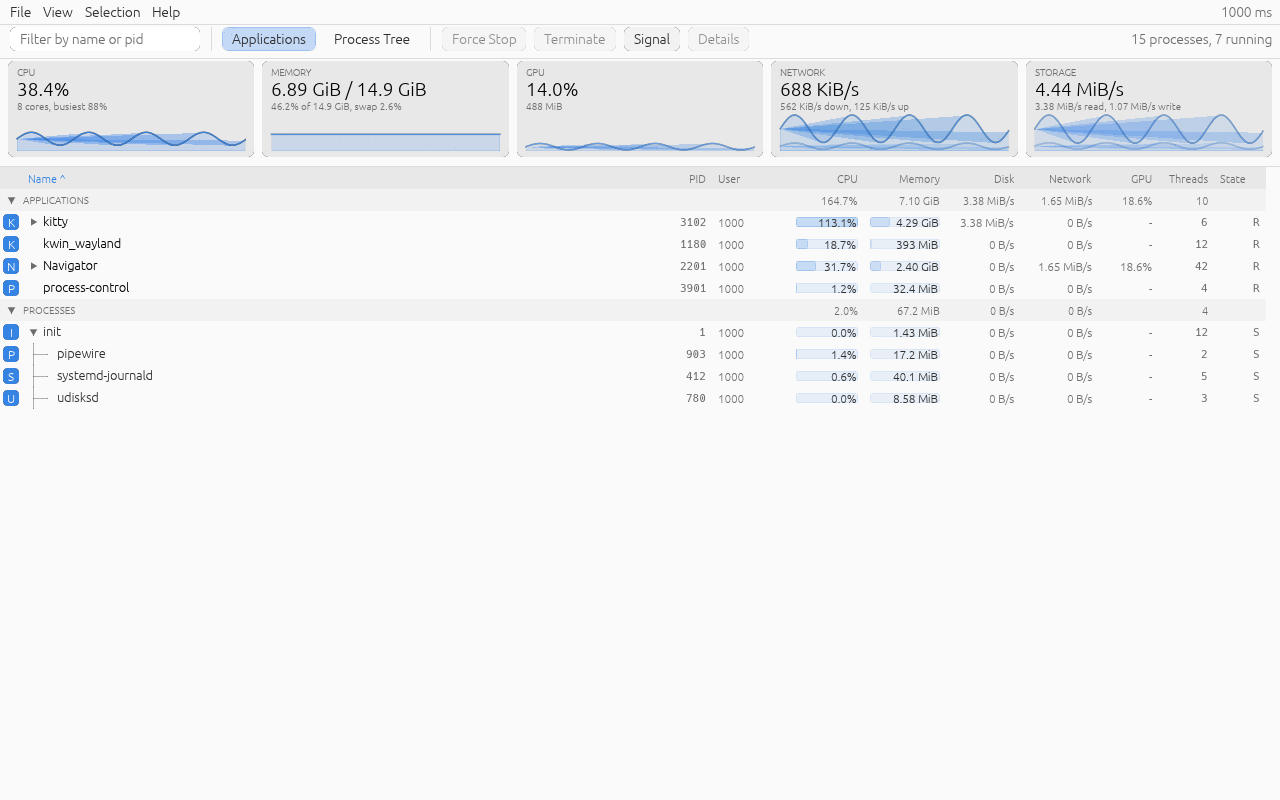
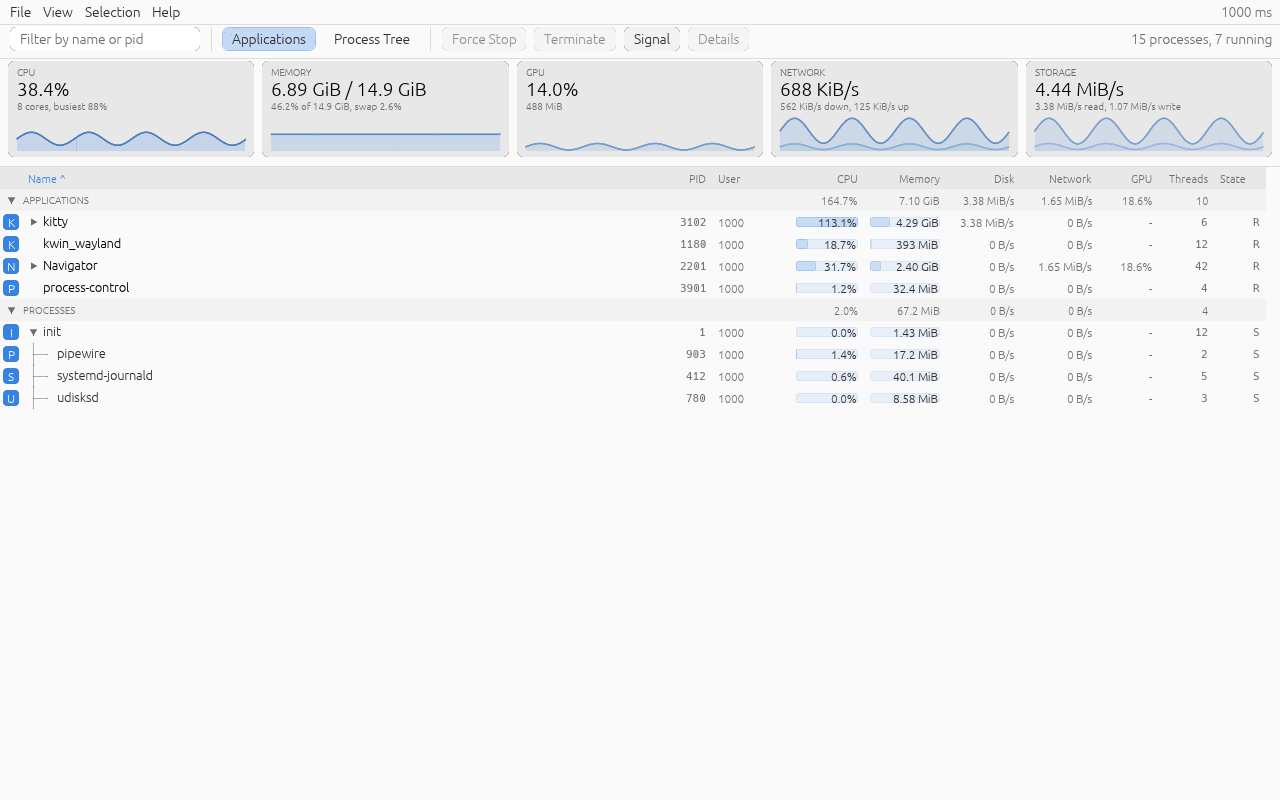
fix(ui): follow the line when filling a graph
The fill was a convex polygon, so a spiky history filled the hull across the valleys instead of the area under the line. Build the fill as a triangle strip between the line and the baseline, draw the dimmer second line first, and leave headroom above a network or storage peak. Refresh the docs screenshots.

Changed region(s): [[0.5938, 0.125, 1.0, 0.1875], [0.0312, 0.1562, 0.1875, 0.1875], [0.4375, 0.1562, 0.5625, 0.1875]]

diff --git a/src/ui.rs b/src/ui.rs
@@ -633,7 +633,8 @@ fn card(
         egui::pos2(inner.left(), inner.top() + 48.0),
         egui::pos2(inner.right(), rect.bottom() - 6.0),
     );
-    graph(&painter, plot, history.first, history.ceiling, color);
+    // The dimmer second line goes first, so the bright first line stays on
+    // top where the two overlap.
     if !history.second.is_empty() {
         graph(
             &painter,
@@ -643,6 +644,7 @@ fn card(
             color.gamma_multiply(0.55),
         );
     }
+    graph(&painter, plot, history.first, history.ceiling, color);
     response.on_hover_text(format!("{title}\n{value}\n{detail}"));
 }
 
@@ -694,16 +696,23 @@ fn graph(painter: &egui::Painter, plot: Rect, history: &[f32], ceiling: f32, col
         .map(|(index, value)| point(index, *value))
         .collect();
 
-    let mut fill = points.clone();
-    if let (Some(first), Some(last)) = (points.first(), points.last()) {
-        fill.push(egui::pos2(last.x, plot.bottom()));
-        fill.push(egui::pos2(first.x, plot.bottom()));
+    // The fill follows the line point by point. A convex polygon would take
+    // the hull of a spiky history instead, drawing wide wedges across the
+    // valleys between two peaks.
+    let fill = color.gamma_multiply(0.20);
+    let mut mesh = egui::Mesh::default();
+    let bottom = plot.bottom();
+    for pair in points.windows(2) {
+        let [left, right] = [pair[0], pair[1]];
+        let base = mesh.vertices.len() as u32;
+        mesh.colored_vertex(left, fill);
+        mesh.colored_vertex(right, fill);
+        mesh.colored_vertex(egui::pos2(left.x, bottom), fill);
+        mesh.colored_vertex(egui::pos2(right.x, bottom), fill);
+        mesh.add_triangle(base, base + 1, base + 2);
+        mesh.add_triangle(base + 2, base + 1, base + 3);
     }
-    painter.add(egui::Shape::convex_polygon(
-        fill,
-        color.gamma_multiply(0.20),
-        Stroke::NONE,
-    ));
+    painter.add(egui::Shape::mesh(mesh));
     painter.add(egui::Shape::line(points, Stroke::new(1.4, color)));
 }
 
@@ -802,7 +811,8 @@ fn gpu_card(app: &App, ui: &mut egui::Ui, width: f32) {
 fn network_card(app: &App, ui: &mut egui::Ui, width: f32) {
     let sample = &app.sample;
     let palette = palette(ui);
-    let ceiling = app.scales.net.max(1.0);
+    // A little headroom keeps the tallest spike off the card's top edge.
+    let ceiling = (app.scales.net * 1.1).max(1.0);
     card(
         ui,
         width,
@@ -826,7 +836,7 @@ fn network_card(app: &App, ui: &mut egui::Ui, width: f32) {
 fn disk_card(app: &App, ui: &mut egui::Ui, width: f32) {
     let sample = &app.sample;
     let palette = palette(ui);
-    let ceiling = app.scales.disk.max(1.0);
+    let ceiling = (app.scales.disk * 1.1).max(1.0);
     card(
         ui,
         width,
